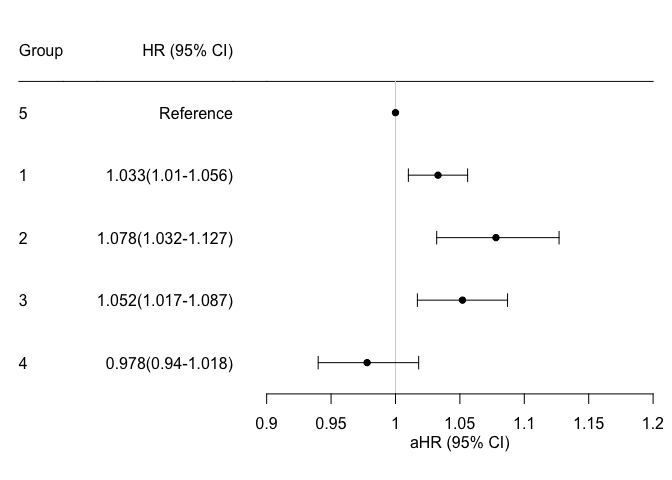
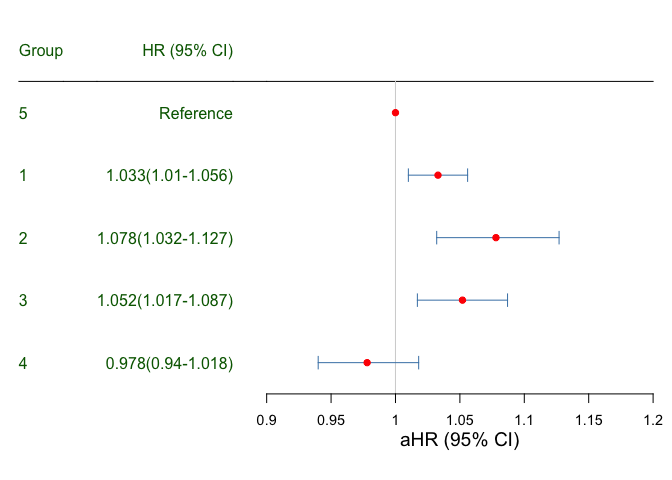
tried to make it easy to change font sizes and colors

diff --git a/README.md b/README.md
@@ -41,6 +41,7 @@
 
 ### Set the format parameters
 
+-   xlab\_text:Set text content of x label.
 -   xrange(a, b, by = c) : here a is the lower limit, b is the upper
     limit, and c is the interval of of x axis.
 -   fontsize: set the size of the fonts in the plot.
@@ -50,9 +51,25 @@
 <!-- -->
 
     #Setting parameters
+    xlab_text = "aHR (95% CI)" #Set x label
     xrange = seq(0.9, 1.2, by=0.05)
-    fontsize = 1.0
+
+    #Set fontsizes
+    fontsize_lab = 1.0 #label
+    fontsize_xlab = 1.2 #label of x axis
+    fontsize_ticks = 0.9 #ticks of x axis
+
+    #Set box size
     boxsize = 0.1
+
+    #Set colors
+    boxcolor = "red"
+    textcolor = "black"
+    linecolor = "steelblue" #for the line of each sample
+    labelcolor = "darkgreen" #color of label text
+    axiscolor = "green"
+    colorlabel = "orange"
+    hrelcolor = "black"
 
 ### Visualization
 
@@ -63,20 +80,20 @@
                new_page = TRUE,
                xlog=FALSE,
                boxsize=boxsize,
-               col.lab="grey29",
+               col.lab=colorlabel,
                #is.summary=c(TRUE,TRUE,rep(FALSE,8),TRUE,rep(FALSE,7),TRUE,rep(FALSE,6),TRUE,rep(FALSE,5),TRUE,rep(FALSE,4),TRUE,rep(FALSE,3),TRUE,rep(FALSE,2)),
                is.summary = rep(FALSE, length(data$HR)), #Set which one is summary
                #xlog=TRUE,
-               xlab="aHR (95% CI)",
-               txt_gp = fpTxtGp(label =gpar(fontfamily = "Arial", cex=fontsize,col=1),
-                                xlab = gpar(fontfamily = "Arial", cex=fontsize,col=1),
-                                ticks = gpar(fontfamily = "Arial", cex=fontsize)),
-               col=fpColors(box="black",line="black",text="black"),
+               xlab=xlab_text,
+               txt_gp = fpTxtGp(label =gpar(fontfamily = "Arial", cex=fontsize_lab,col=labelcolor),
+                                xlab = gpar(fontfamily = "Arial", cex=fontsize_xlab,col=axiscolor),
+                                ticks = gpar(fontfamily = "Arial", cex=fontsize_ticks)),
+               col=fpColors(box=boxcolor,line=linecolor,text=textcolor),
                xticks = xrange,
                zero = 1,
                fn.ci_norm = fpDrawCircleCI, #Change the mark to circle
                ci.vertices = TRUE,
                ci.vertices.height = 0.1,
-               hrzl_lines = list("2" = gpar( col = "#000044")))
+               hrzl_lines = list("2" = gpar( col = hrelcolor)))
 
 ![](README_files/figure-markdown_strict/unnamed-chunk-5-1.png)
